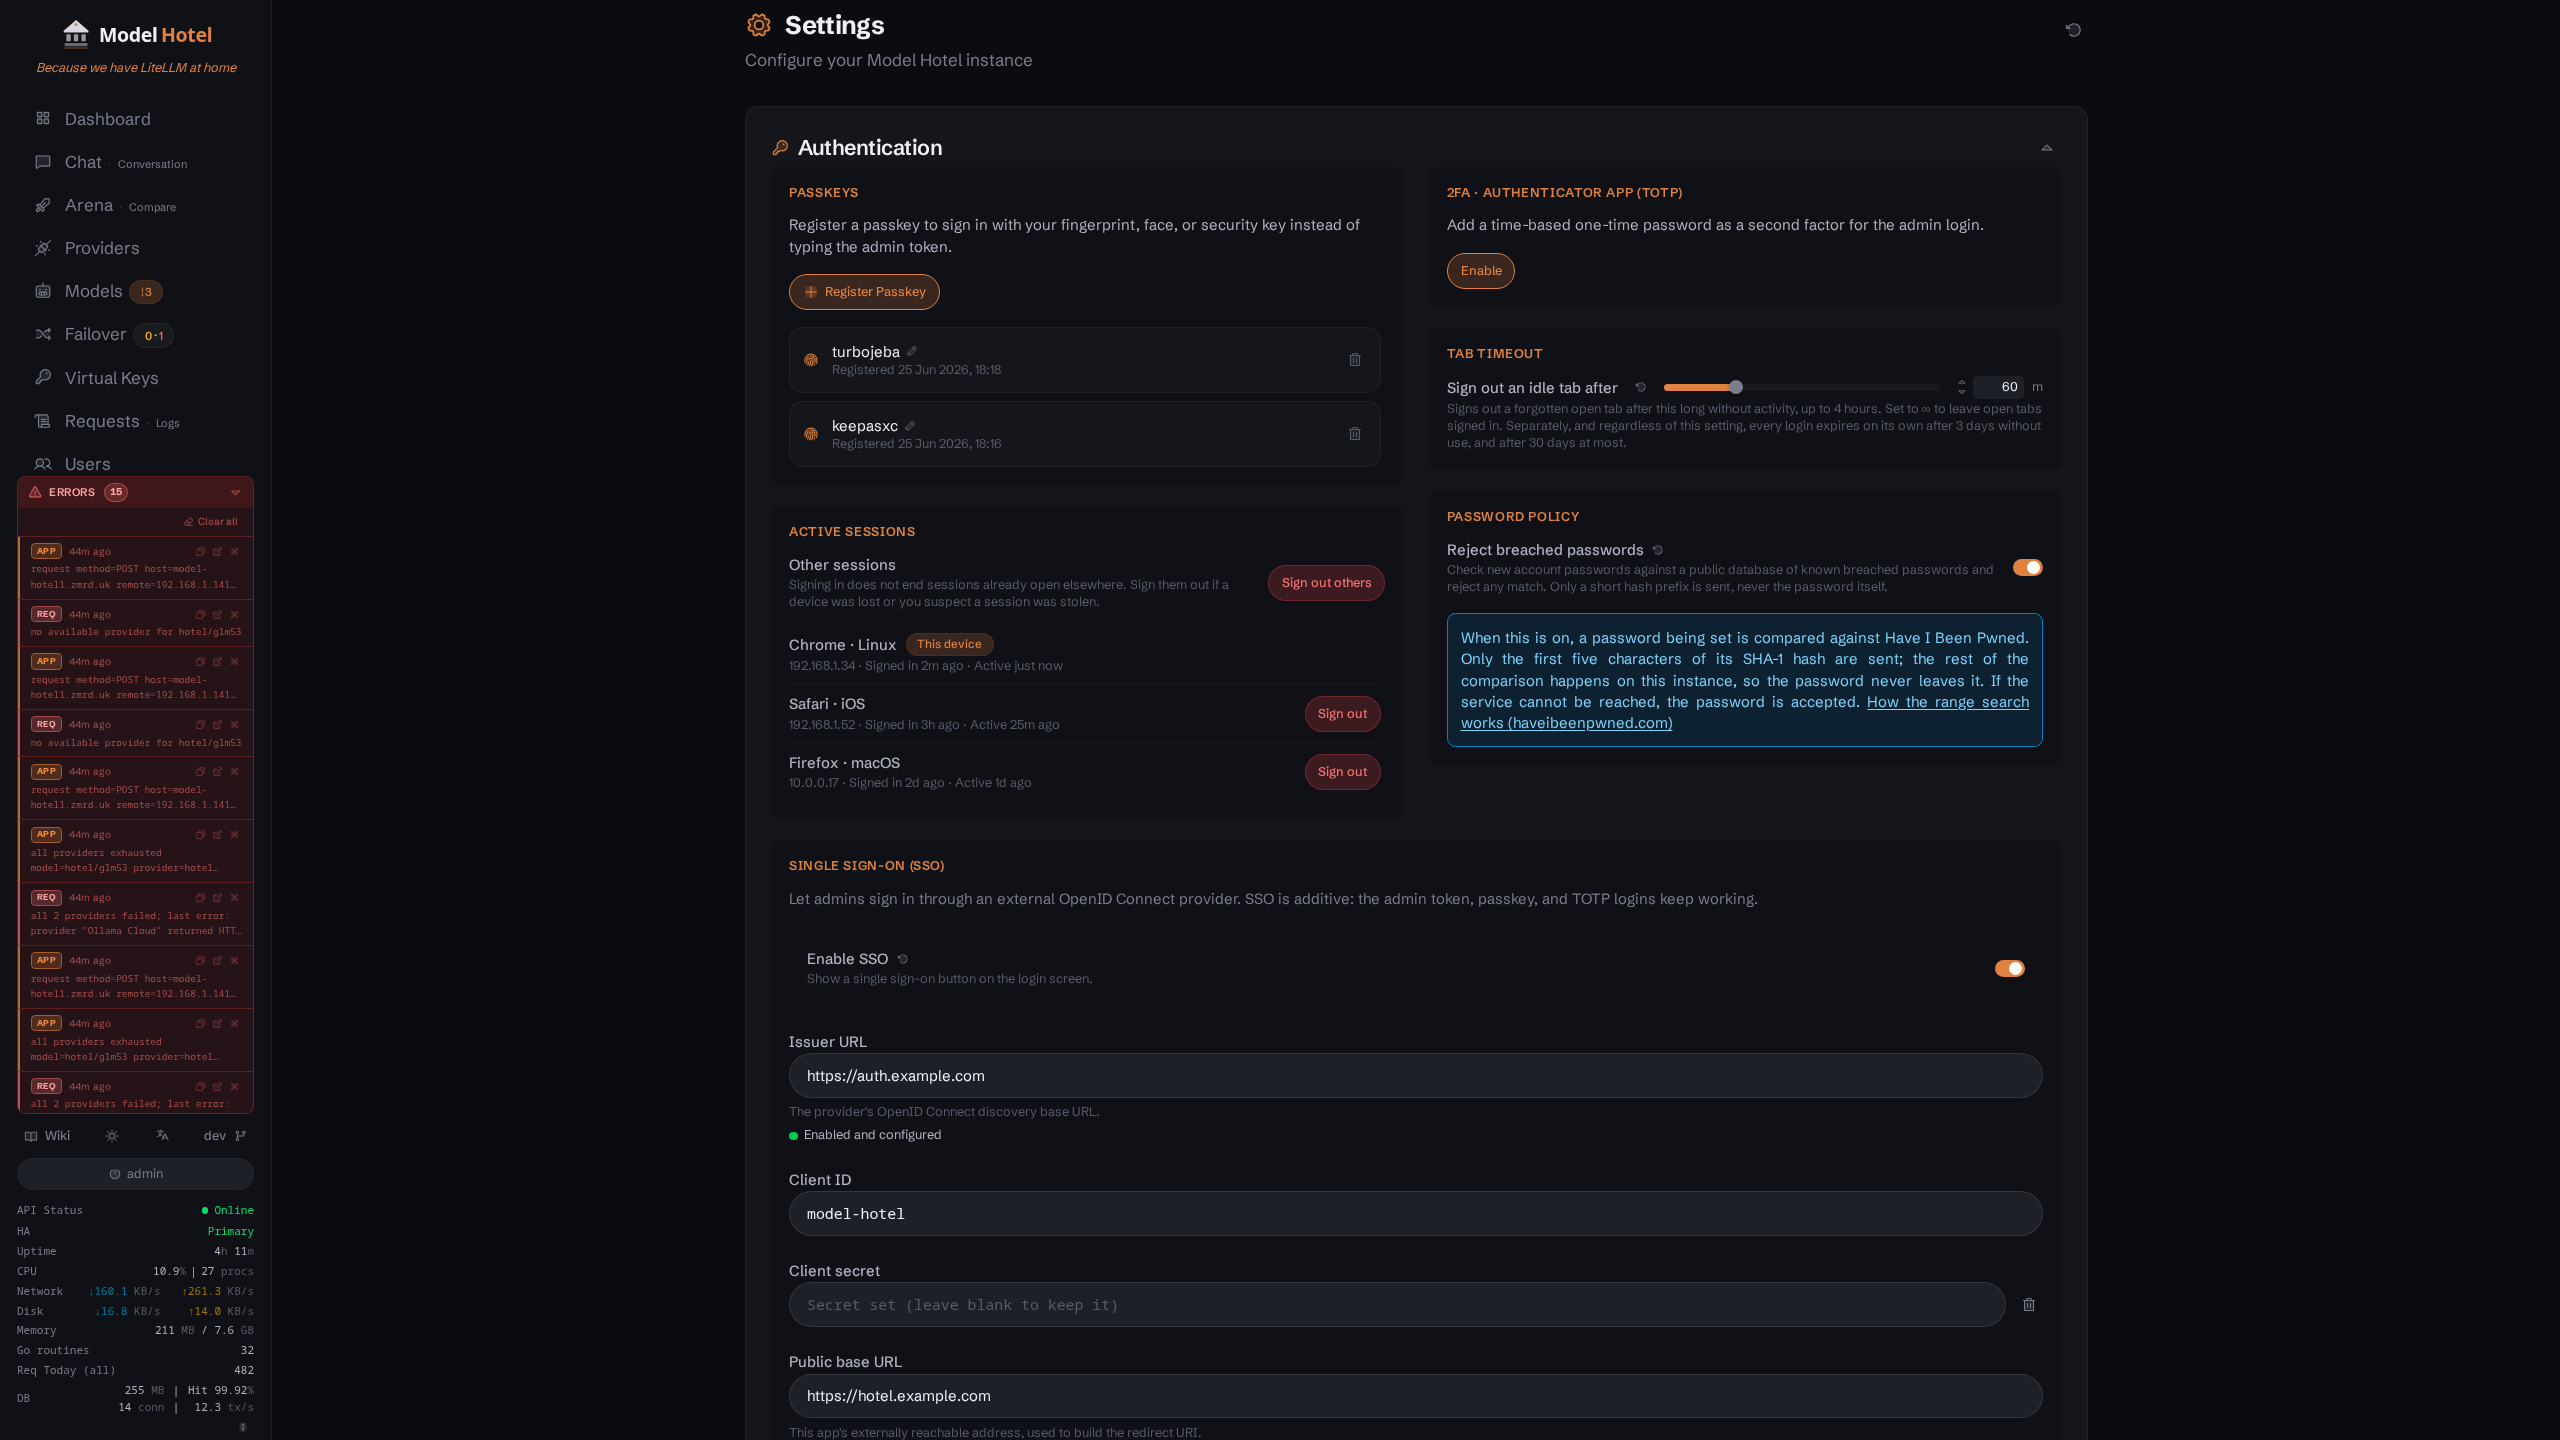
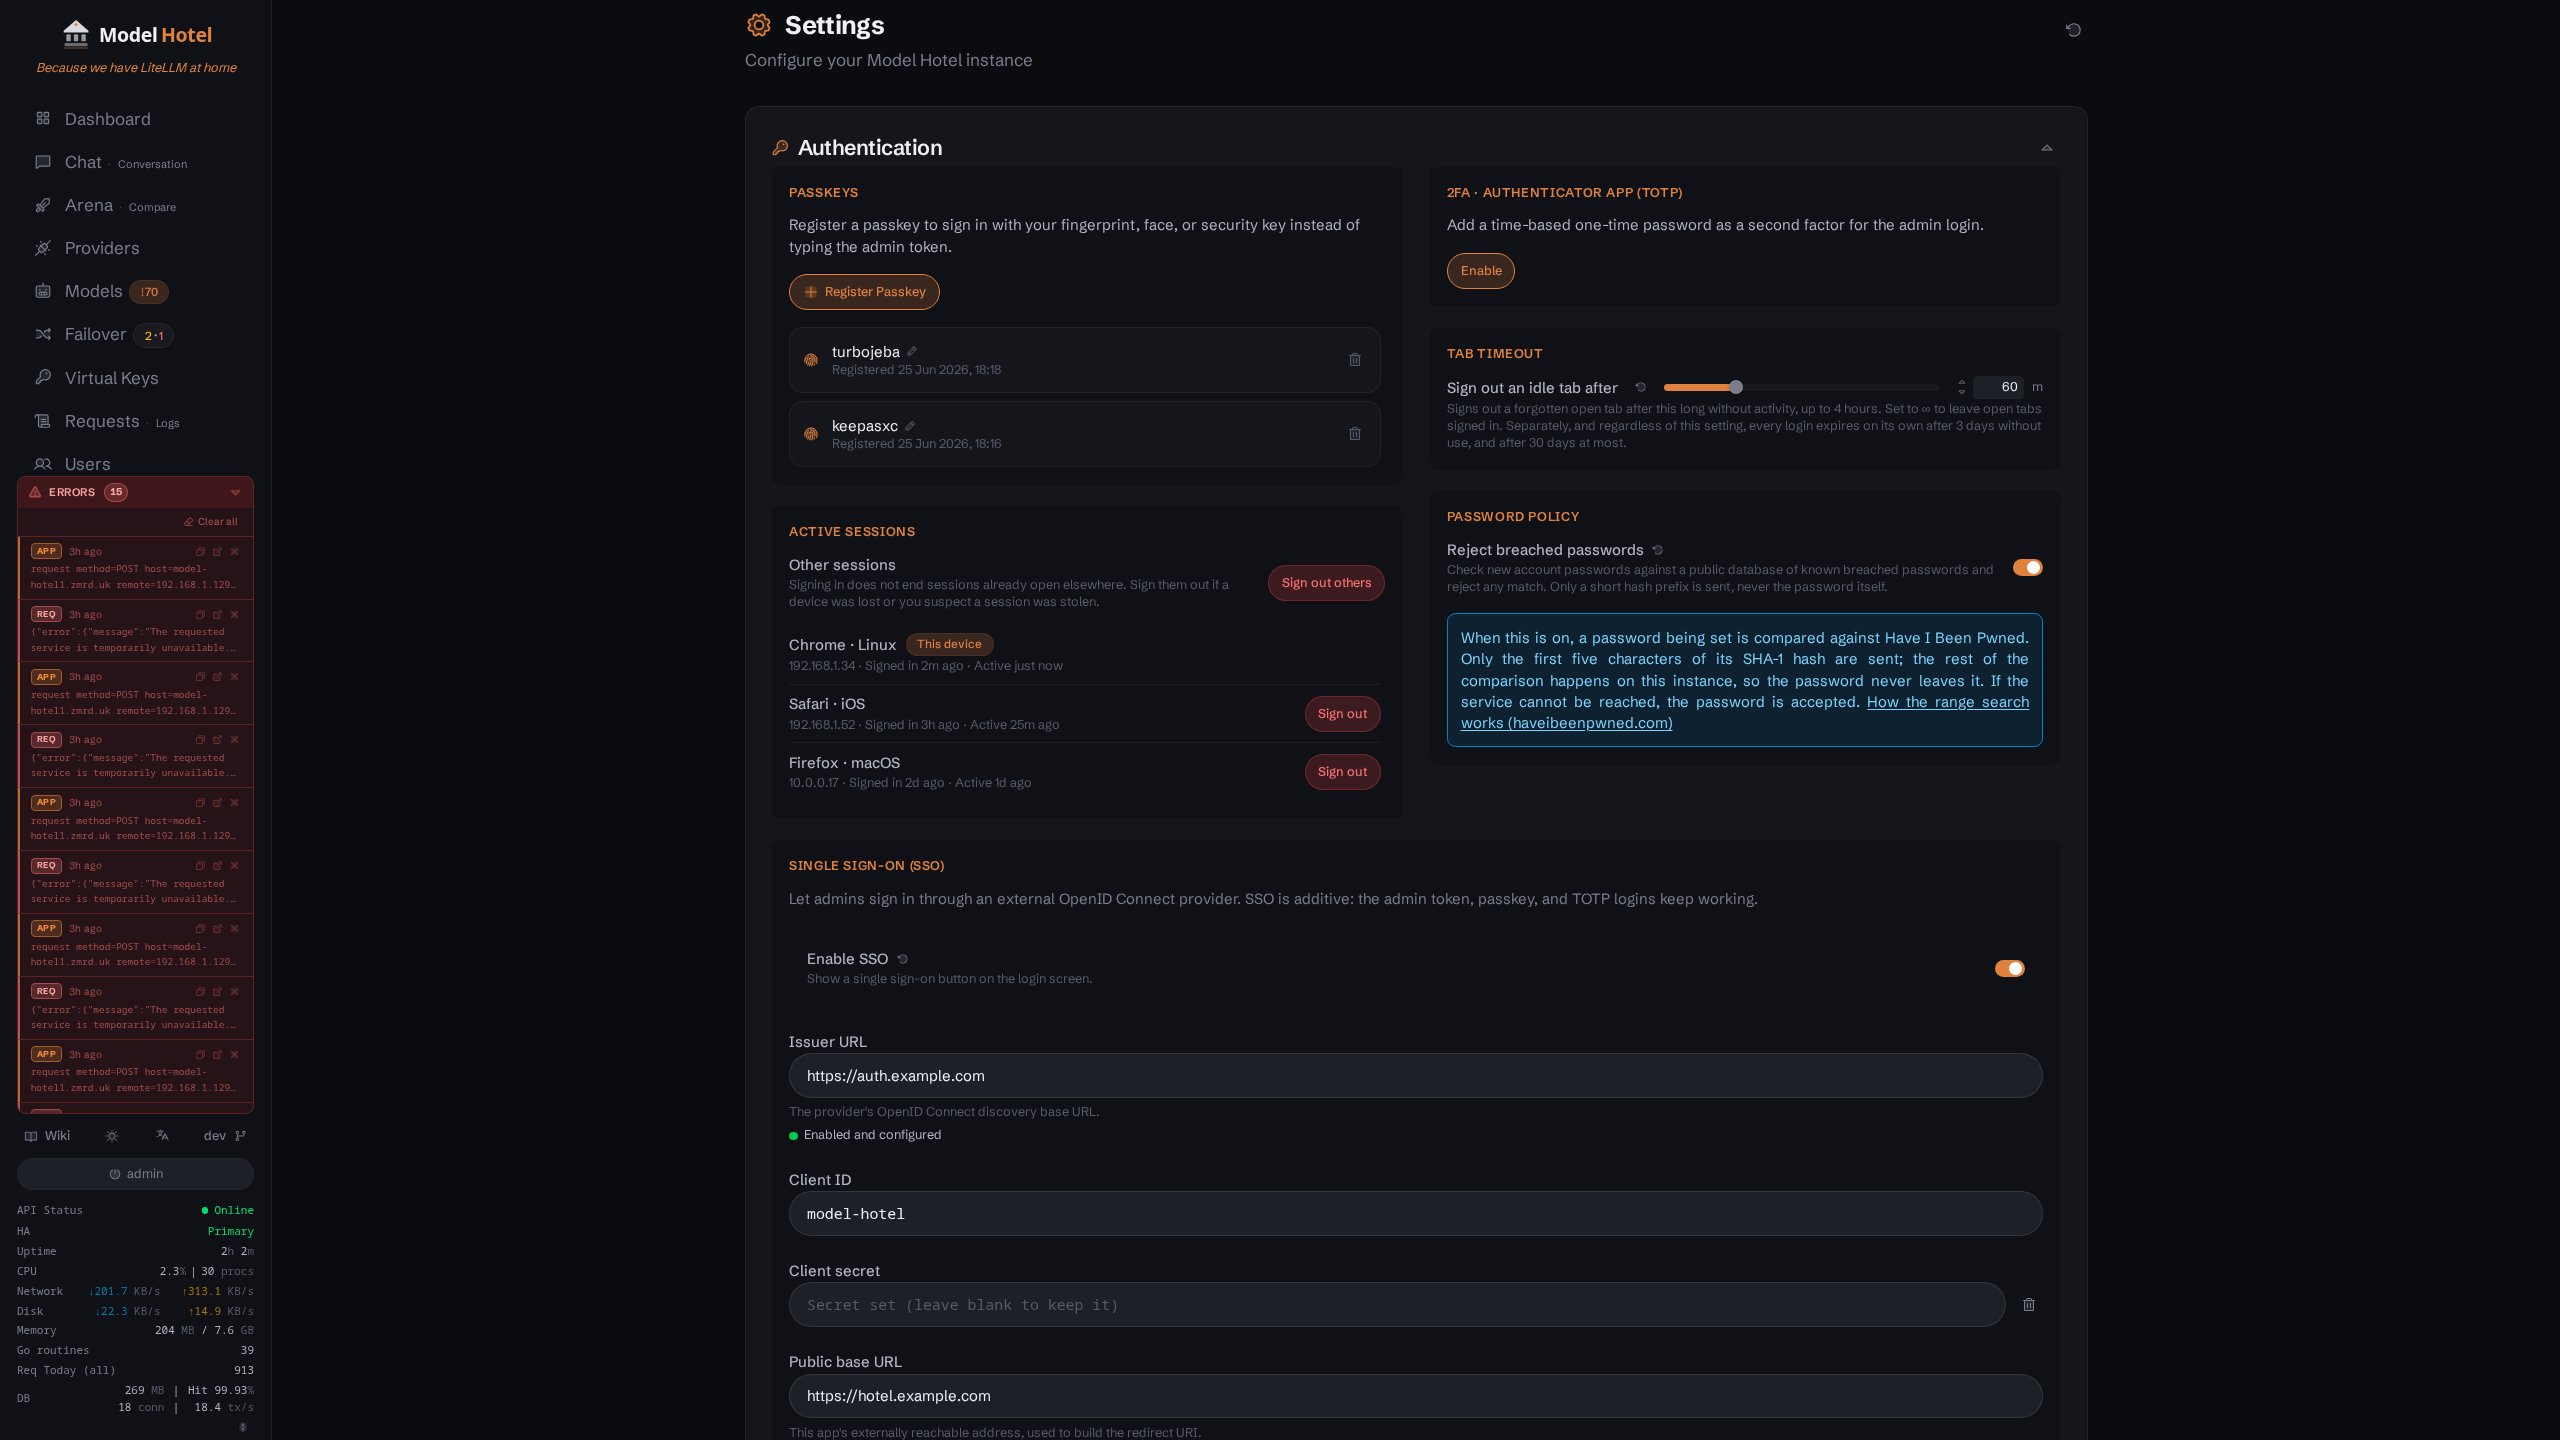
docs(screenshots): refresh the README dashboard set and add the OpenCode Go modal to the wiki
Retaken from the live fleet at build 0e600cbc after the Z.ai window
reset, so every pill reads normally. The request-details shot keeps the
shipped two-attempt trail (the retake caught a single-attempt sweep
request and that modal did not change). The OpenCode Go quota modal
goes to the wiki quota section; the README row is full.

Changed region(s): [[0.0, 0.4375, 0.0938, 0.7812]]

diff --git a/wiki/Model-Discovery.md b/wiki/Model-Discovery.md
@@ -1479,6 +1479,10 @@ These are exposed via:
 - `GET /api/providers/{id}/account` - for Ollama Cloud
 - `POST /api/providers/refresh-quotas` - refreshes usage/balance for all supported providers
 
+The dashboard renders each of these as a sidebar pill with a detail modal. The OpenCode Go modal shows the three subscription windows the endpoint reports, each with its percent consumed and reset time:
+
+<a href="screenshots/quota_opencodego.png"><img src="screenshots/quota_opencodego.png" width="360" alt="OpenCode Go plan quota modal: rolling 5-hour, weekly and monthly windows with percent used and reset times"></a>
+
 Quota/balance fetches use a circuit breaker with 5 consecutive failure threshold and 5-minute cooldown.
 The gateway keeps one discovery service for the life of the process, so this state persists across
 polls: five failures spread over five separate poll passes open the circuit exactly as five failures
